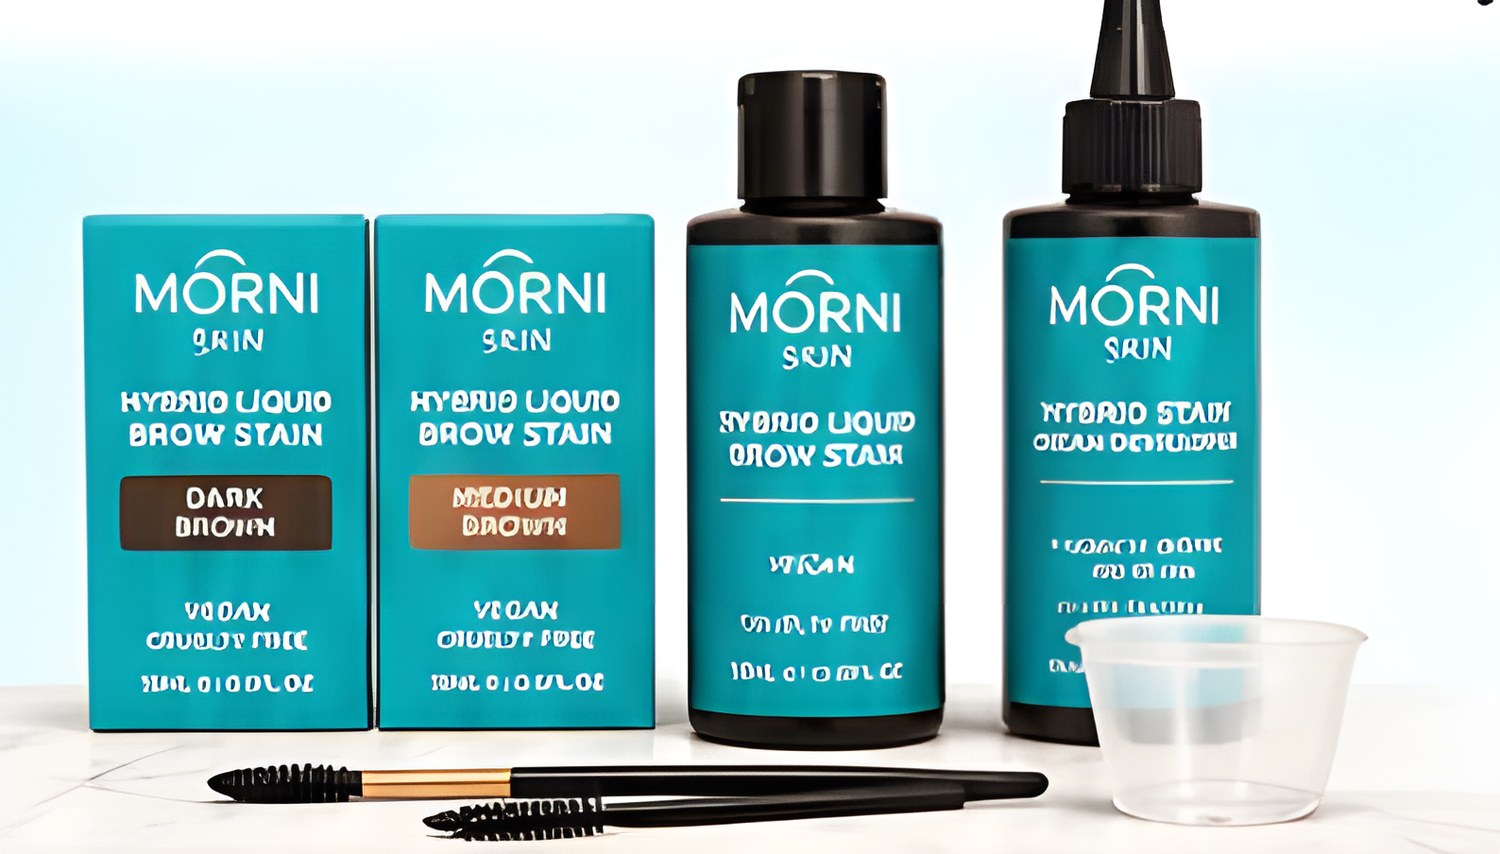
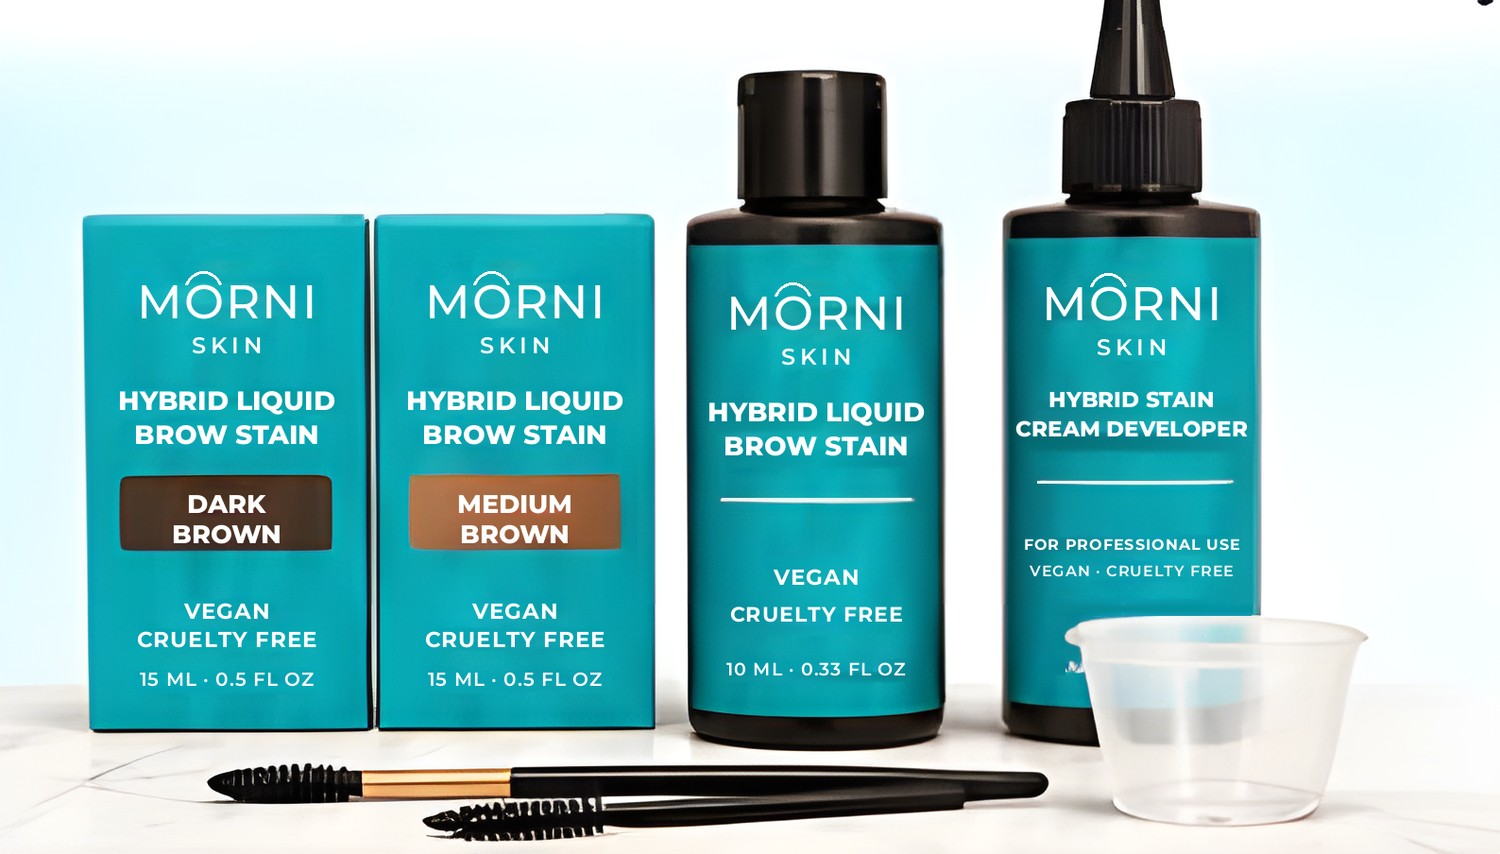
Morni: sharpen product kit image with crisp, readable labels
Claude-Session: https://claude.ai/code/session_01RyrqFnqGrC3o6i2aY4mWRV

diff --git a/avi-pradhan/index.html b/avi-pradhan/index.html
@@ -241,7 +241,7 @@
 <section class="kit" id="kit">
   <div class="wrap kit-grid">
     <div class="kit-photo reveal">
-      <img src="images/kit.jpg" alt="The Morni professional kit: Dark Brown and Medium Brown hybrid liquid brow stains, cream developer, stain remover, brushes and mixing cup" loading="lazy" width="1500" height="854">
+      <img src="images/kit.jpg?v=2" alt="The Morni professional kit: Dark Brown and Medium Brown hybrid liquid brow stains, cream developer, stain remover, brushes and mixing cup" loading="lazy" width="1500" height="854">
     </div>
     <div class="kit-copy reveal">
       <h2>The Complete <br class="bd">Professional Kit</h2>
